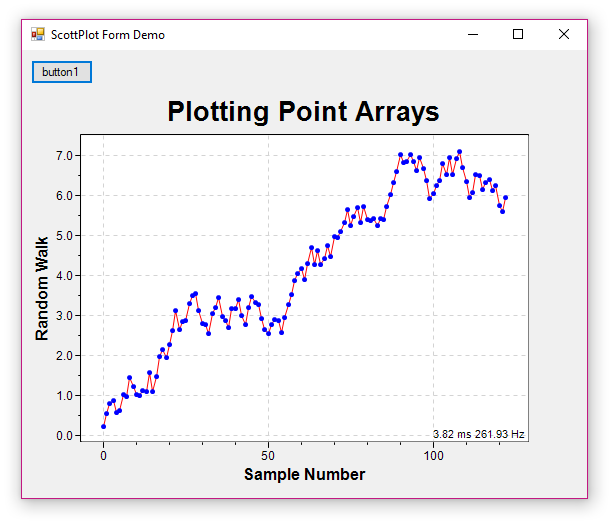
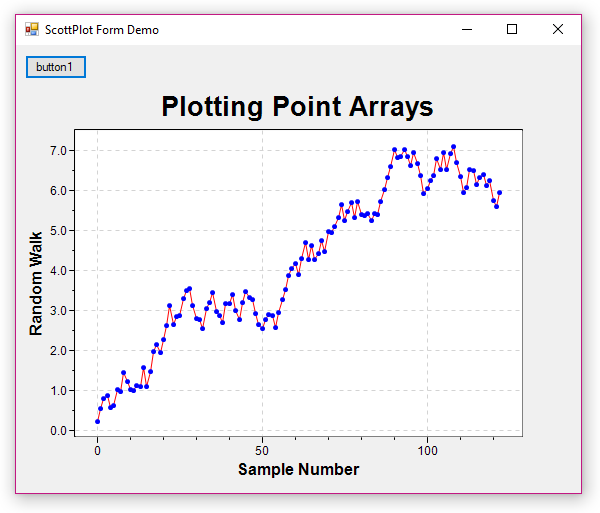
improved screenshots

Changed region(s): [[0.0, 0.0, 0.99, 0.9669], [0.48, 0.3743, 0.63, 0.5614]]

diff --git a/src/Examples/console/ConsoleApp1/Program.cs b/src/Examples/console/ConsoleApp1/Program.cs
@@ -64,7 +64,8 @@ namespace ConsoleApp1
             string[] pngFiles = System.IO.Directory.GetFiles(outPath, "*.png");
             Array.Sort(pngFiles);
             string md = "# ScottPlot Cookbook\n\n";
-            md += "This document was generated automatically from [Cookbook.cs](/src/Examples/console/ConsoleApp1/Cookbook.cs). ";
+            md += "This document was generated automatically by a [program](/src/Examples/console/ConsoleApp1/Program.cs) ";
+            md += " which pulls examples from [Cookbook.cs](/src/Examples/console/ConsoleApp1/Cookbook.cs). ";
             md += "Since it generates graphs using many different features, it doubles as both a ";
             md += "test script and a cookbook to demonstrate various uses of the ScottPlot API.";
             foreach (string pngFile in pngFiles)

diff --git a/src/Examples/console/ConsoleApp1/Cookbook.cs b/src/Examples/console/ConsoleApp1/Cookbook.cs
@@ -31,7 +31,7 @@ namespace ConsoleApp1
             fig.ResizeToData(Xs, Ys, .9, .9);
 
             // make the plot
-            fig.BenchmarkThis();
+            //fig.BenchmarkThis();
             fig.PlotLines(Xs, Ys, 1, Color.Red);
             fig.PlotScatter(Xs, Ys, 5, Color.Blue);
 

diff --git a/src/Examples/GUI/Simple/Form1.cs b/src/Examples/GUI/Simple/Form1.cs
@@ -36,7 +36,7 @@ namespace Simple
             fig.ResizeToData(Xs, Ys, .9, .9);
 
             // make the plot
-            fig.BenchmarkThis();
+            //fig.BenchmarkThis();
             fig.PlotLines(Xs, Ys, 1, Color.Red);
             fig.PlotScatter(Xs, Ys, 5, Color.Blue);
 

diff --git a/README.md b/README.md
@@ -23,7 +23,6 @@ private void button1_Click(object sender, EventArgs e)
   fig.ResizeToData(Xs, Ys, .9, .9);
 
   // make the plot
-  fig.BenchmarkThis();
   fig.PlotLines(Xs, Ys, 1, Color.Red);
   fig.PlotScatter(Xs, Ys, 5, Color.Blue);
   
@@ -54,7 +53,6 @@ static void Main(string[] args)
   fig.ResizeToData(Xs, Ys, .9, .9);
 
   // make the plot
-  fig.BenchmarkThis();
   fig.PlotLines(Xs, Ys, 1, Color.Red);
   fig.PlotScatter(Xs, Ys, 5, Color.Blue);
 
